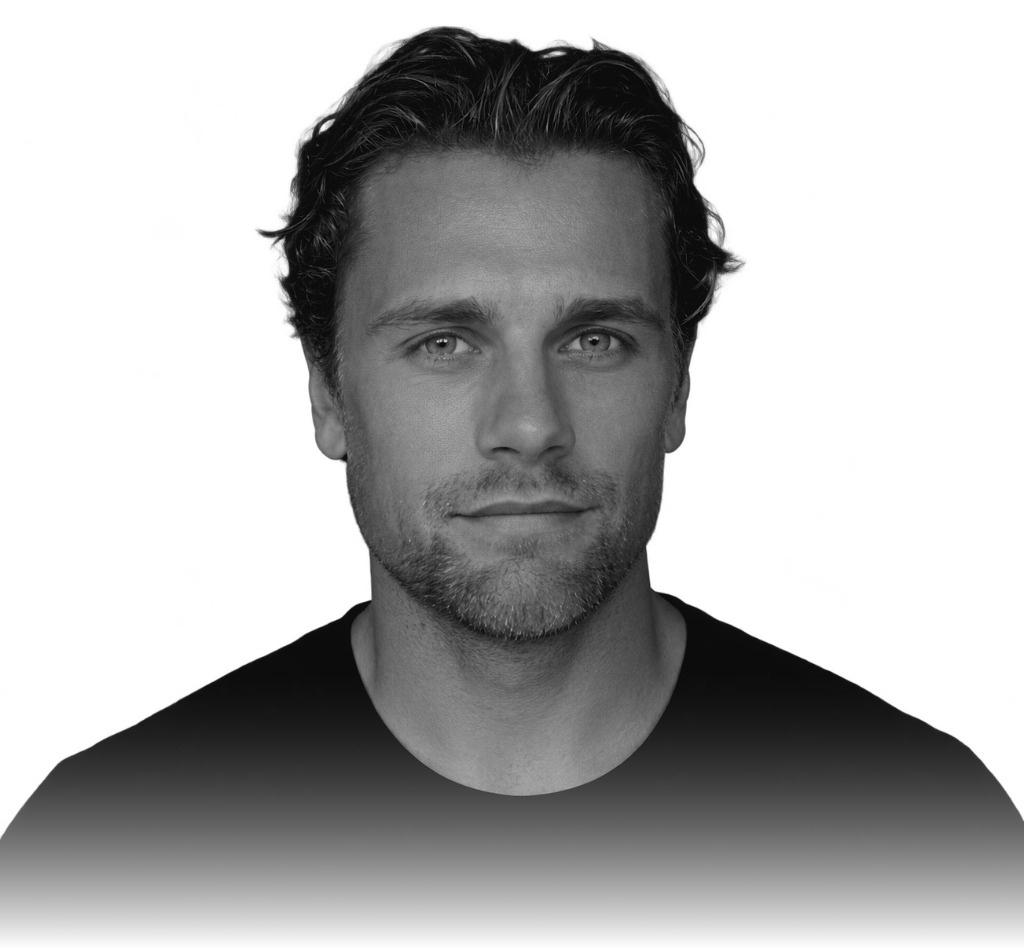
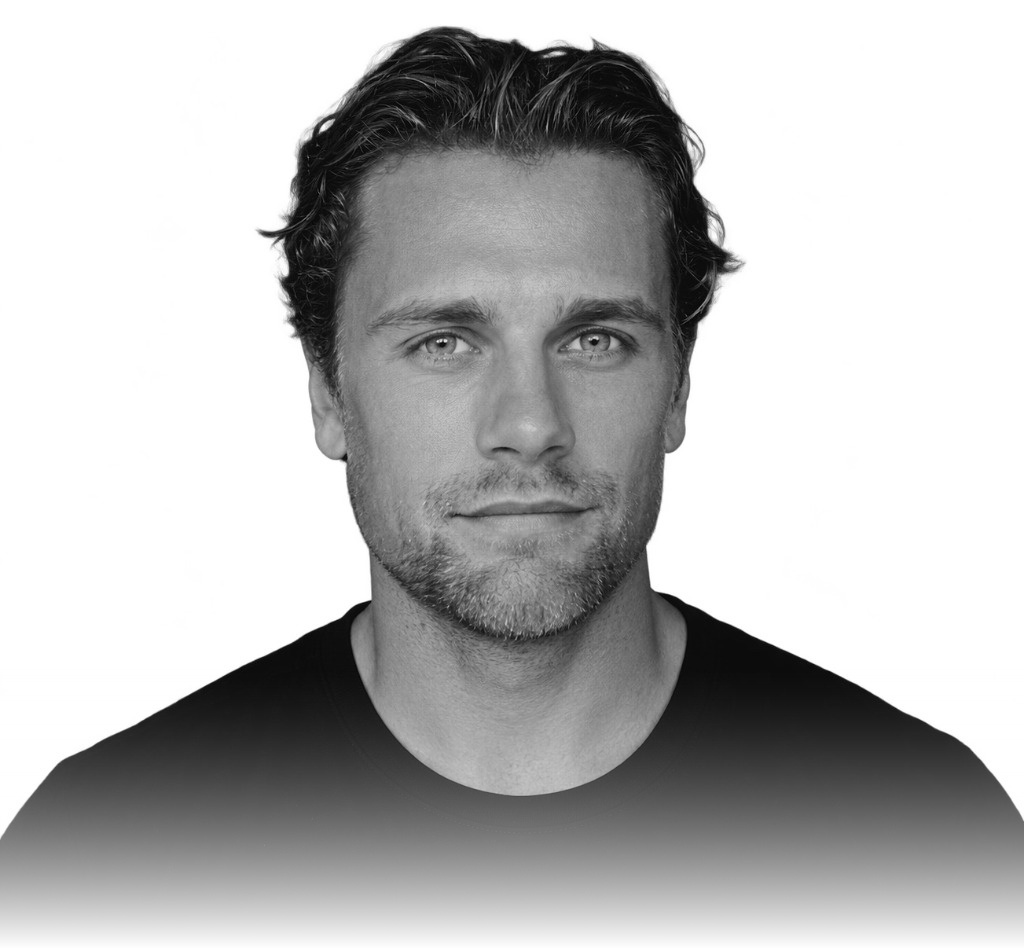
Update: Brighter portrait, 'Fotografering' title, and added breathing room above contact form

Changed region(s): [[0.2812, 0.153, 0.6875, 0.8565], [0.4688, 0.0918, 0.5, 0.1224]]

diff --git a/styles.css b/styles.css
@@ -104,18 +104,16 @@ body {
 
 /* Portrait Image */
 .portrait-container {
-  margin-top: 1.5rem;
-  margin-bottom: -1.25rem;
+  margin-top: 2rem;
+  margin-bottom: 2.5rem;
   display: flex;
   justify-content: center;
   align-items: center;
   width: 100%;
-  position: relative;
-  z-index: 1;
 }
 
 .hero-portrait {
-  width: clamp(280px, 40vw, 400px);
+  width: clamp(280px, 40vw, 390px);
   max-width: 100%;
   height: auto;
   display: block;
@@ -128,8 +126,6 @@ body {
   width: 100%;
   max-width: 520px;
   margin: 0 auto;
-  position: relative;
-  z-index: 2;
 }
 
 .contact-form {

diff --git a/index.html b/index.html
@@ -22,7 +22,7 @@
     <main class="main-content">
       <div class="hero-block">
         <h1 class="brand-title">GLNG<span class="brand-dot">.</span></h1>
-        <p class="brand-sub">Marinkonsultering inom försvarsindustrin <span class="divider">/</span> Fotograf</p>
+        <p class="brand-sub">Marinkonsultering inom försvarsindustrin <span class="divider">/</span> Fotografering</p>
 
         <div class="portrait-container">
           <img src="assets/hampus.jpg" alt="Hampus Gelang" class="hero-portrait">
